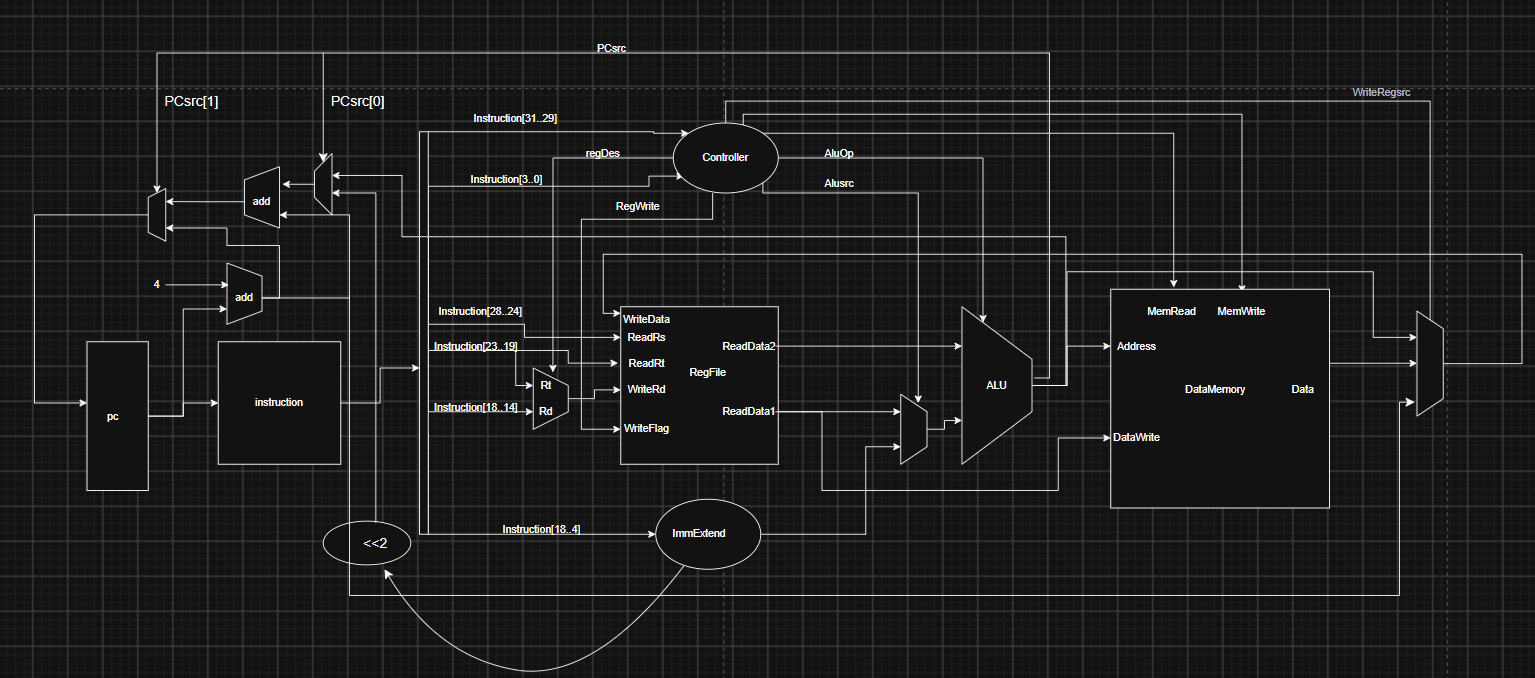
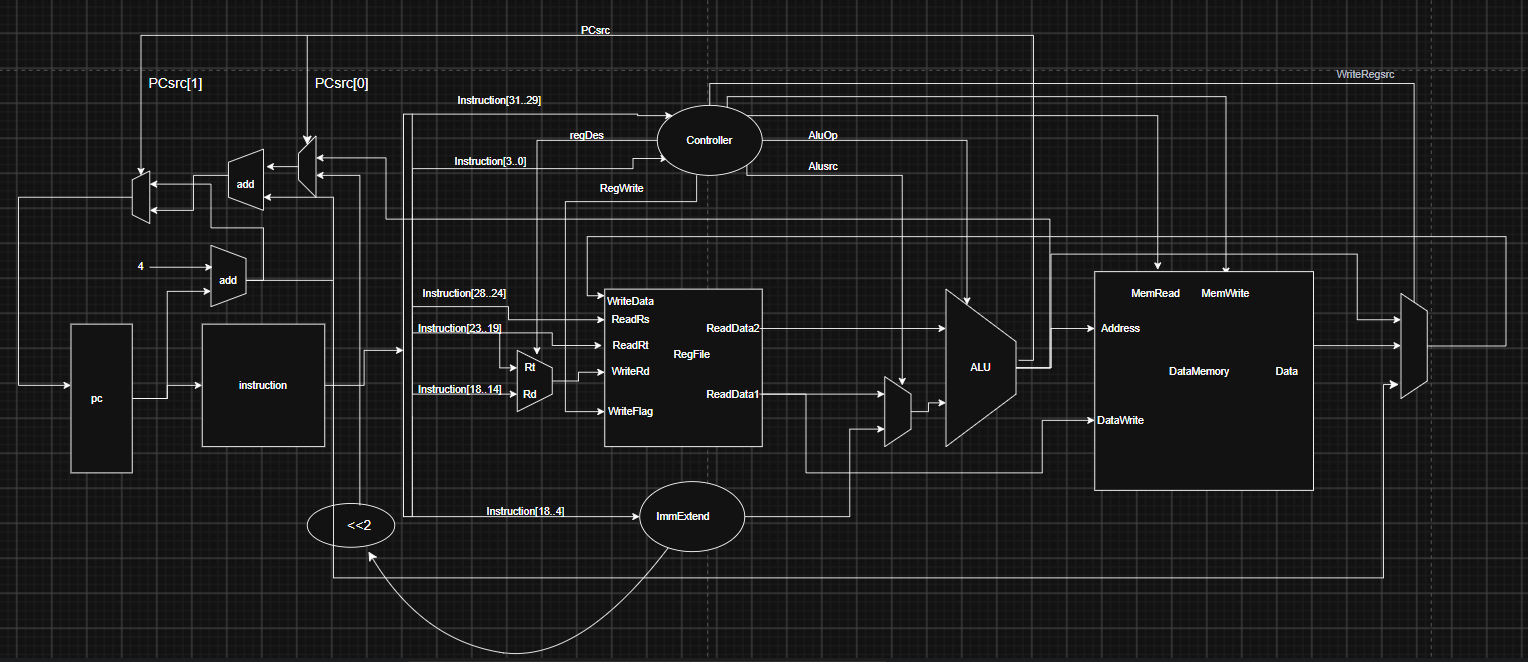
start working on the Alu

diff --git a/core/README.md b/core/README.md
@@ -19,7 +19,12 @@
 | and  rd,rs,rt  | [rd]=[rs]&[rt]         | 0111 | 
 | nand  rd,rs,rt | [rd]=~([rs]&[rt])      | 1000 | 
 | nor  rd,rs,rt  | [rd]=~([rs]or[rt])     | 1001 | 
-| nxor  rd,rs,rt | [rd]=~([rs]^[rt])      | 1010 | 
+| nxor  rd,rs,rt | [rd]=~([rs]^[rt])      | 1010 |  
+| cyl  rd,rs,rt |left shift cycle rs then store on rd  | 1011 |
+| cyr  rd,rs,rt |rigt shift cycle rs then store on rd  | 1100 |
+| cylo  rd,rs,rt |left shift cycle rs with Overrflow then store on rd  | 1101 |
+| cyro  rd,rs,rt|rigt shift cycle rs with Overrflowthen store on rd  | 1110 |
+
 
 - you may noticed there's no `set less than` instruction or simmeller code , this is because we work with  flags   for comparing,  check the `C-type`instruction 
 
@@ -43,6 +48,10 @@
 | nandi rt,rs,Imm | [rt]=~([rs]&Imm) | 1000 | 
 | nori  rt,rs,Imm | [rt]=~([rs]orImm) | 1001 | 
 | nxori rt,rs,Imm | [rt]=~([rs]^Imm) | 1010 | 
+| cyli  rt , rs , Imm |left shift cycle rs then store on rt  | 1011 |
+| cyri  rt , rs , Imm |rigt shift cycle rs then store on rt  | 1100 |
+| cyloi  rt , rs , Imm |left shift cycle rs with Overrflow then store on rt  | 1101 |
+| cyroi  rt , rs , Imm|rigt shift cycle rs with Overrflowthen store on rt  | 1110 |
 
 - Imm is Singed value and will be extended to 64-bit
 ## IB (work with one or tow Register and Imm value to updata the PC value)
